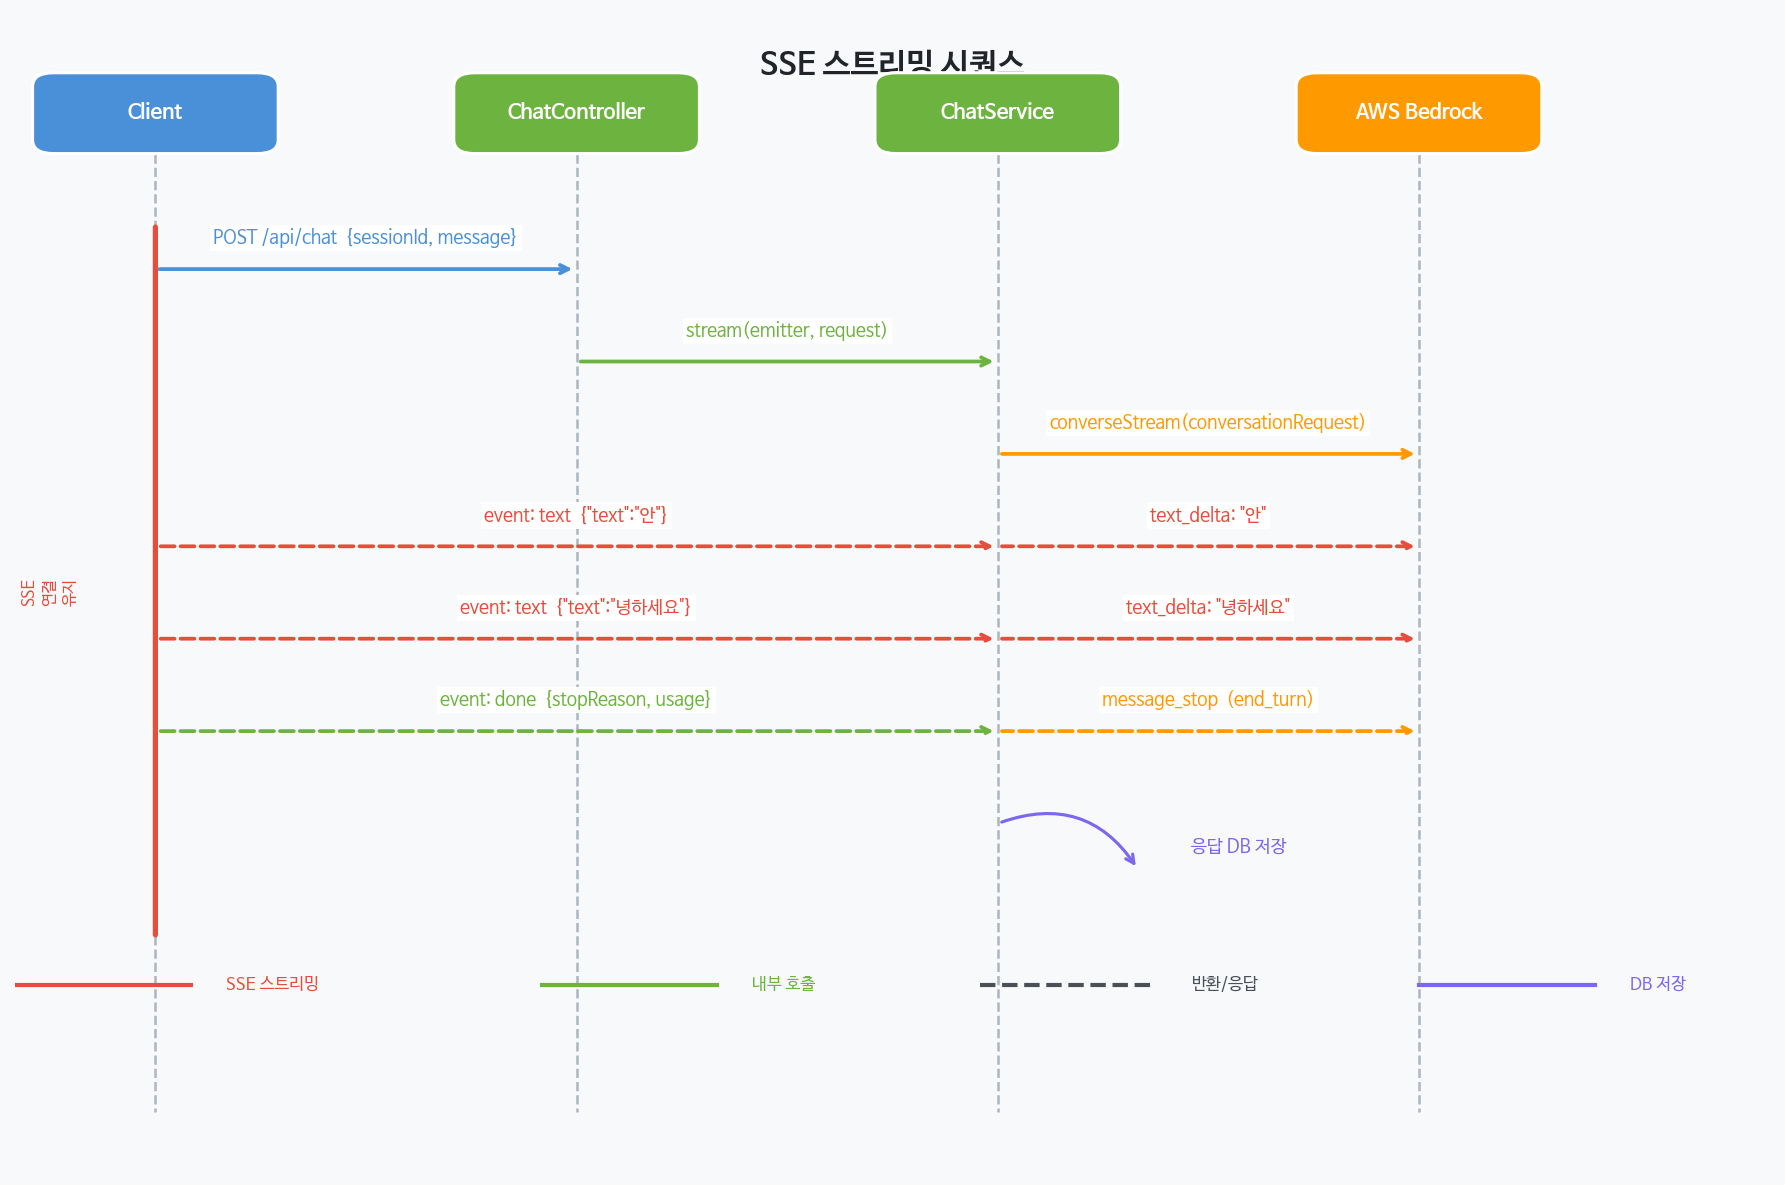
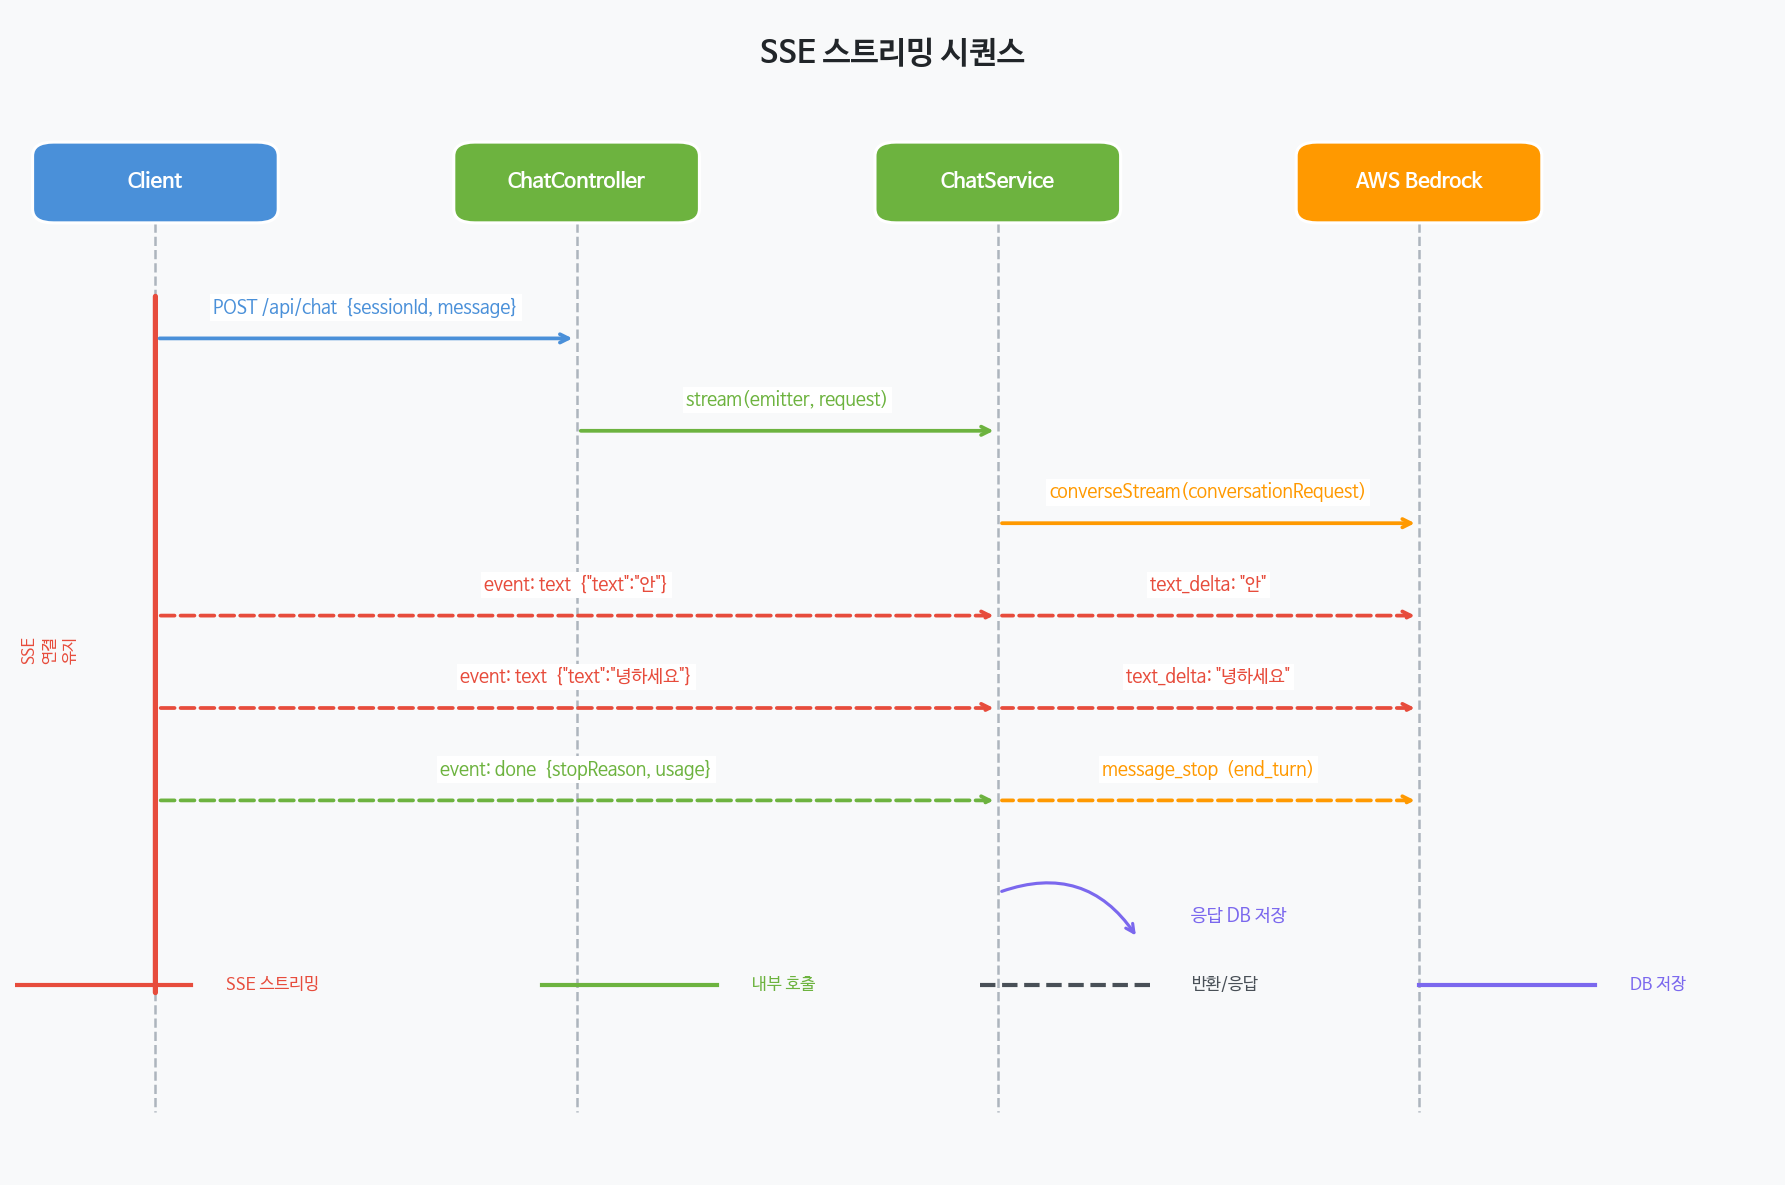
docs: 아키텍처 다이어그램 추상화 및 시퀀스 타이틀 겹침 수정
https://claude.ai/code/session_01WCMpjn5nYJ9PHFdKDggWAN

diff --git a/docs/gen_diagrams.py b/docs/gen_diagrams.py
@@ -47,72 +47,45 @@ def arrow(ax, x1, y1, x2, y2, label='', color=C_ARROW, lw=1.8, style='->', dashe
 # ══════════════════════════════════════════════════════════
 # 1. 아키텍처 다이어그램
 # ══════════════════════════════════════════════════════════
-fig, ax = plt.subplots(figsize=(12, 7))
+fig, ax = plt.subplots(figsize=(8, 9))
 ax.set_xlim(0, 1)
 ax.set_ylim(0, 1)
 ax.axis('off')
 fig.patch.set_facecolor(C_BG)
 ax.set_facecolor(C_BG)
 
-ax.text(0.5, 0.96, 'AI 챗봇 — 시스템 아키텍처',
+ax.text(0.5, 0.97, 'AI 챗봇 — 시스템 아키텍처',
         ha='center', va='top', fontsize=15, fontweight='bold', color=C_TEXT)
 
-# ── 레이어 배경 ────────────────────────────────────────────
-layers = [
-    (0.02, 0.74, 0.96, 0.18, '#E8F4FD', 'Frontend'),
-    (0.02, 0.40, 0.96, 0.30, '#EBF5E1', 'Spring Boot Backend'),
-    (0.02, 0.06, 0.96, 0.30, '#FFF3E0', 'AWS / Persistence'),
+BW, BH = 0.44, 0.10   # 박스 너비/높이
+CX = 0.5               # 중앙 x
+
+# ── 박스 4개 (위 → 아래) ───────────────────────────────────
+boxes = [
+    (0.80, C_CLIENT,  'Frontend Client'),
+    (0.62, C_SPRING,  'Spring Boot'),
+    (0.44, C_AWS,     'AWS Bedrock\n(Claude Sonnet / Haiku)'),
+    (0.22, C_DB,      'H2 / MySQL'),
 ]
-for lx, ly, lw, lh, lc, lt in layers:
-    rect = FancyBboxPatch((lx, ly), lw, lh,
-                          boxstyle='round,pad=0,rounding_size=0.015',
-                          facecolor=lc, edgecolor=C_BORDER, linewidth=1, zorder=1)
-    ax.add_patch(rect)
-    ax.text(lx + 0.01, ly + lh - 0.025, lt, fontsize=8, color='#6C757D',
-            fontweight='bold', va='top', zorder=2)
-
-# ── Frontend ───────────────────────────────────────────────
-box(ax, 0.35, 0.79, 0.30, 0.10, C_CLIENT, 'Frontend Client\n(React / 외부)')
-
-# ── Backend 박스들 ─────────────────────────────────────────
-box(ax, 0.05, 0.55, 0.20, 0.10, C_SPRING, 'ChatController\n(SSE Emitter)', fontsize=9)
-box(ax, 0.28, 0.55, 0.20, 0.10, C_SPRING, 'SessionController\n(REST CRUD)', fontsize=9)
-box(ax, 0.05, 0.42, 0.20, 0.10, C_SPRING, 'ChatService', fontsize=9)
-box(ax, 0.28, 0.42, 0.20, 0.10, C_SPRING, 'SessionManager', fontsize=9)
-box(ax, 0.51, 0.42, 0.20, 0.10, C_SPRING, 'MessageHistory\nService', fontsize=9)
-box(ax, 0.74, 0.48, 0.20, 0.10, C_SPRING, 'BedrockService\n(SDK 변환)', fontsize=9)
-
-# ── AWS / DB ───────────────────────────────────────────────
-box(ax, 0.60, 0.13, 0.32, 0.22, C_AWS,
-    'AWS Bedrock\nClaude Sonnet 4.6\nClaude Haiku 4.5', fontsize=9)
-box(ax, 0.05, 0.13, 0.42, 0.22, C_DB,
-    'H2 / MySQL\nsessions  |  messages', fontsize=9)
+for by, bc, bt in boxes:
+    box(ax, CX - BW/2, by, BW, BH, bc, bt, fontsize=12)
 
 # ── 화살표 ─────────────────────────────────────────────────
-# Client → ChatController (SSE)
-arrow(ax, 0.42, 0.79, 0.15, 0.65, 'POST /api/chat (SSE)', color=C_SSE, lw=2)
-# Client → SessionController (REST)
-arrow(ax, 0.50, 0.79, 0.38, 0.65, '/api/sessions/**', color=C_CLIENT)
-# ChatController → ChatService
-arrow(ax, 0.15, 0.55, 0.15, 0.52)
-# ChatService → BedrockService
-arrow(ax, 0.25, 0.47, 0.74, 0.52, 'converseStream()', color=C_AWS)
-# BedrockService → AWS Bedrock
-arrow(ax, 0.84, 0.48, 0.80, 0.35, 'AWS SDK v2', color=C_AWS)
-# ChatService → DB
-arrow(ax, 0.15, 0.42, 0.20, 0.35, '', color=C_DB, dashed=True)
-# SessionManager → DB
-arrow(ax, 0.35, 0.42, 0.30, 0.35, '', color=C_DB, dashed=True)
-# MessageHistoryService → DB
-arrow(ax, 0.58, 0.42, 0.35, 0.35, '', color=C_DB, dashed=True)
+# Client → Spring Boot (SSE + REST)
+arrow(ax, CX - 0.04, 0.80, CX - 0.04, 0.72, 'POST /api/chat  (SSE)', color=C_SSE, lw=2)
+arrow(ax, CX + 0.04, 0.80, CX + 0.04, 0.72, '/api/sessions/**  (REST)', color=C_CLIENT)
+# Spring Boot → Bedrock
+arrow(ax, CX, 0.62, CX, 0.54, 'ConverseStream API', color=C_AWS, lw=2)
+# Spring Boot → DB
+arrow(ax, CX + 0.22, 0.66, CX + 0.22, 0.32, 'JPA', color=C_DB, lw=1.8, dashed=True)
 
-# ── SSE 범례 ───────────────────────────────────────────────
-ax.plot([0.05, 0.12], [0.02, 0.02], color=C_SSE, lw=2.5)
-ax.text(0.13, 0.02, 'SSE 스트리밍', va='center', fontsize=8, color=C_SSE)
-ax.plot([0.28, 0.35], [0.02, 0.02], color=C_CLIENT, lw=2)
-ax.text(0.36, 0.02, 'REST API', va='center', fontsize=8, color=C_CLIENT)
-ax.plot([0.48, 0.55], [0.02, 0.02], color=C_DB, lw=2, linestyle='--')
-ax.text(0.56, 0.02, 'DB 저장', va='center', fontsize=8, color=C_DB)
+# ── 범례 ───────────────────────────────────────────────────
+ax.plot([0.05, 0.12], [0.13, 0.13], color=C_SSE, lw=2.5)
+ax.text(0.13, 0.13, ' SSE 스트리밍', va='center', fontsize=9, color=C_SSE)
+ax.plot([0.05, 0.12], [0.08, 0.08], color=C_CLIENT, lw=2)
+ax.text(0.13, 0.08, ' REST API', va='center', fontsize=9, color=C_CLIENT)
+ax.plot([0.05, 0.12], [0.03, 0.03], color=C_DB, lw=2, linestyle='--')
+ax.text(0.13, 0.03, ' DB 저장', va='center', fontsize=9, color=C_DB)
 
 plt.tight_layout()
 plt.savefig('/home/user/chat-bot/docs/architecture.png', dpi=150, bbox_inches='tight',
@@ -130,7 +103,7 @@ ax.axis('off')
 fig.patch.set_facecolor(C_BG)
 ax.set_facecolor(C_BG)
 
-ax.text(0.5, 0.97, 'SSE 스트리밍 시퀀스',
+ax.text(0.5, 0.98, 'SSE 스트리밍 시퀀스',
         ha='center', va='top', fontsize=15, fontweight='bold', color=C_TEXT)
 
 # ── 참여자 박스 (상단) ─────────────────────────────────────
@@ -141,7 +114,7 @@ participants = [
     (0.80,  C_AWS,    'AWS Bedrock'),
 ]
 BOX_W, BOX_H = 0.14, 0.07
-TOP_Y = 0.88
+TOP_Y = 0.82
 LIFE_BOTTOM = 0.05
 
 for px, pc, pt in participants:
@@ -166,16 +139,16 @@ CX, CTRL_X, SVC_X, BEDR_X = 0.08, 0.32, 0.56, 0.80
 
 steps = [
     # (from_x, to_x, y, label, color, dashed, ret)
-    (CX,     CTRL_X, 0.78, 'POST /api/chat  {sessionId, message}',    C_CLIENT,  False, False),
-    (CTRL_X, SVC_X,  0.70, 'stream(emitter, request)',                 C_SPRING,  False, False),
-    (SVC_X,  BEDR_X, 0.62, 'converseStream(conversationRequest)',      C_AWS,     False, False),
-    (BEDR_X, SVC_X,  0.54, 'text_delta: "안"',                         C_SSE,     True,  True),
-    (SVC_X,  CX,     0.54, 'event: text  {"text":"안"}',               C_SSE,     True,  True),
-    (BEDR_X, SVC_X,  0.46, 'text_delta: "녕하세요"',                    C_SSE,     True,  True),
-    (SVC_X,  CX,     0.46, 'event: text  {"text":"녕하세요"}',          C_SSE,     True,  True),
-    (BEDR_X, SVC_X,  0.38, 'message_stop  (end_turn)',                 C_AWS,     True,  True),
-    (SVC_X,  CX,     0.38, 'event: done  {stopReason, usage}',         C_SPRING,  True,  True),
-    (SVC_X,  SVC_X,  0.30, '응답 DB 저장',                              C_DB,      False, False),
+    (CX,     CTRL_X, 0.72, 'POST /api/chat  {sessionId, message}',    C_CLIENT,  False, False),
+    (CTRL_X, SVC_X,  0.64, 'stream(emitter, request)',                 C_SPRING,  False, False),
+    (SVC_X,  BEDR_X, 0.56, 'converseStream(conversationRequest)',      C_AWS,     False, False),
+    (BEDR_X, SVC_X,  0.48, 'text_delta: "안"',                         C_SSE,     True,  True),
+    (SVC_X,  CX,     0.48, 'event: text  {"text":"안"}',               C_SSE,     True,  True),
+    (BEDR_X, SVC_X,  0.40, 'text_delta: "녕하세요"',                    C_SSE,     True,  True),
+    (SVC_X,  CX,     0.40, 'event: text  {"text":"녕하세요"}',          C_SSE,     True,  True),
+    (BEDR_X, SVC_X,  0.32, 'message_stop  (end_turn)',                 C_AWS,     True,  True),
+    (SVC_X,  CX,     0.32, 'event: done  {stopReason, usage}',         C_SPRING,  True,  True),
+    (SVC_X,  SVC_X,  0.24, '응답 DB 저장',                              C_DB,      False, False),
 ]
 
 # self-loop for DB save
@@ -192,11 +165,11 @@ for item in steps:
         seq_arrow(ax, from_x, to_x, y, label, color, dashed, ret)
 
 # SSE 연결 유지 표시
-ax.annotate('', xy=(CX, 0.20), xytext=(CX, 0.82),
+ax.annotate('', xy=(CX, 0.15), xytext=(CX, 0.76),
             arrowprops=dict(arrowstyle='-', color=C_SSE, lw=2.5,
                             linestyle='-'),
             zorder=2)
-ax.text(CX - 0.06, 0.50, 'SSE\n연결\n유지', ha='center', va='center',
+ax.text(CX - 0.06, 0.45, 'SSE\n연결\n유지', ha='center', va='center',
         fontsize=7.5, color=C_SSE, rotation=90)
 
 ax.plot([0.0, 0.1], [0.16, 0.16], color=C_SSE, lw=2); ax.text(0.12, 0.16, 'SSE 스트리밍', va='center', fontsize=8, color=C_SSE)
